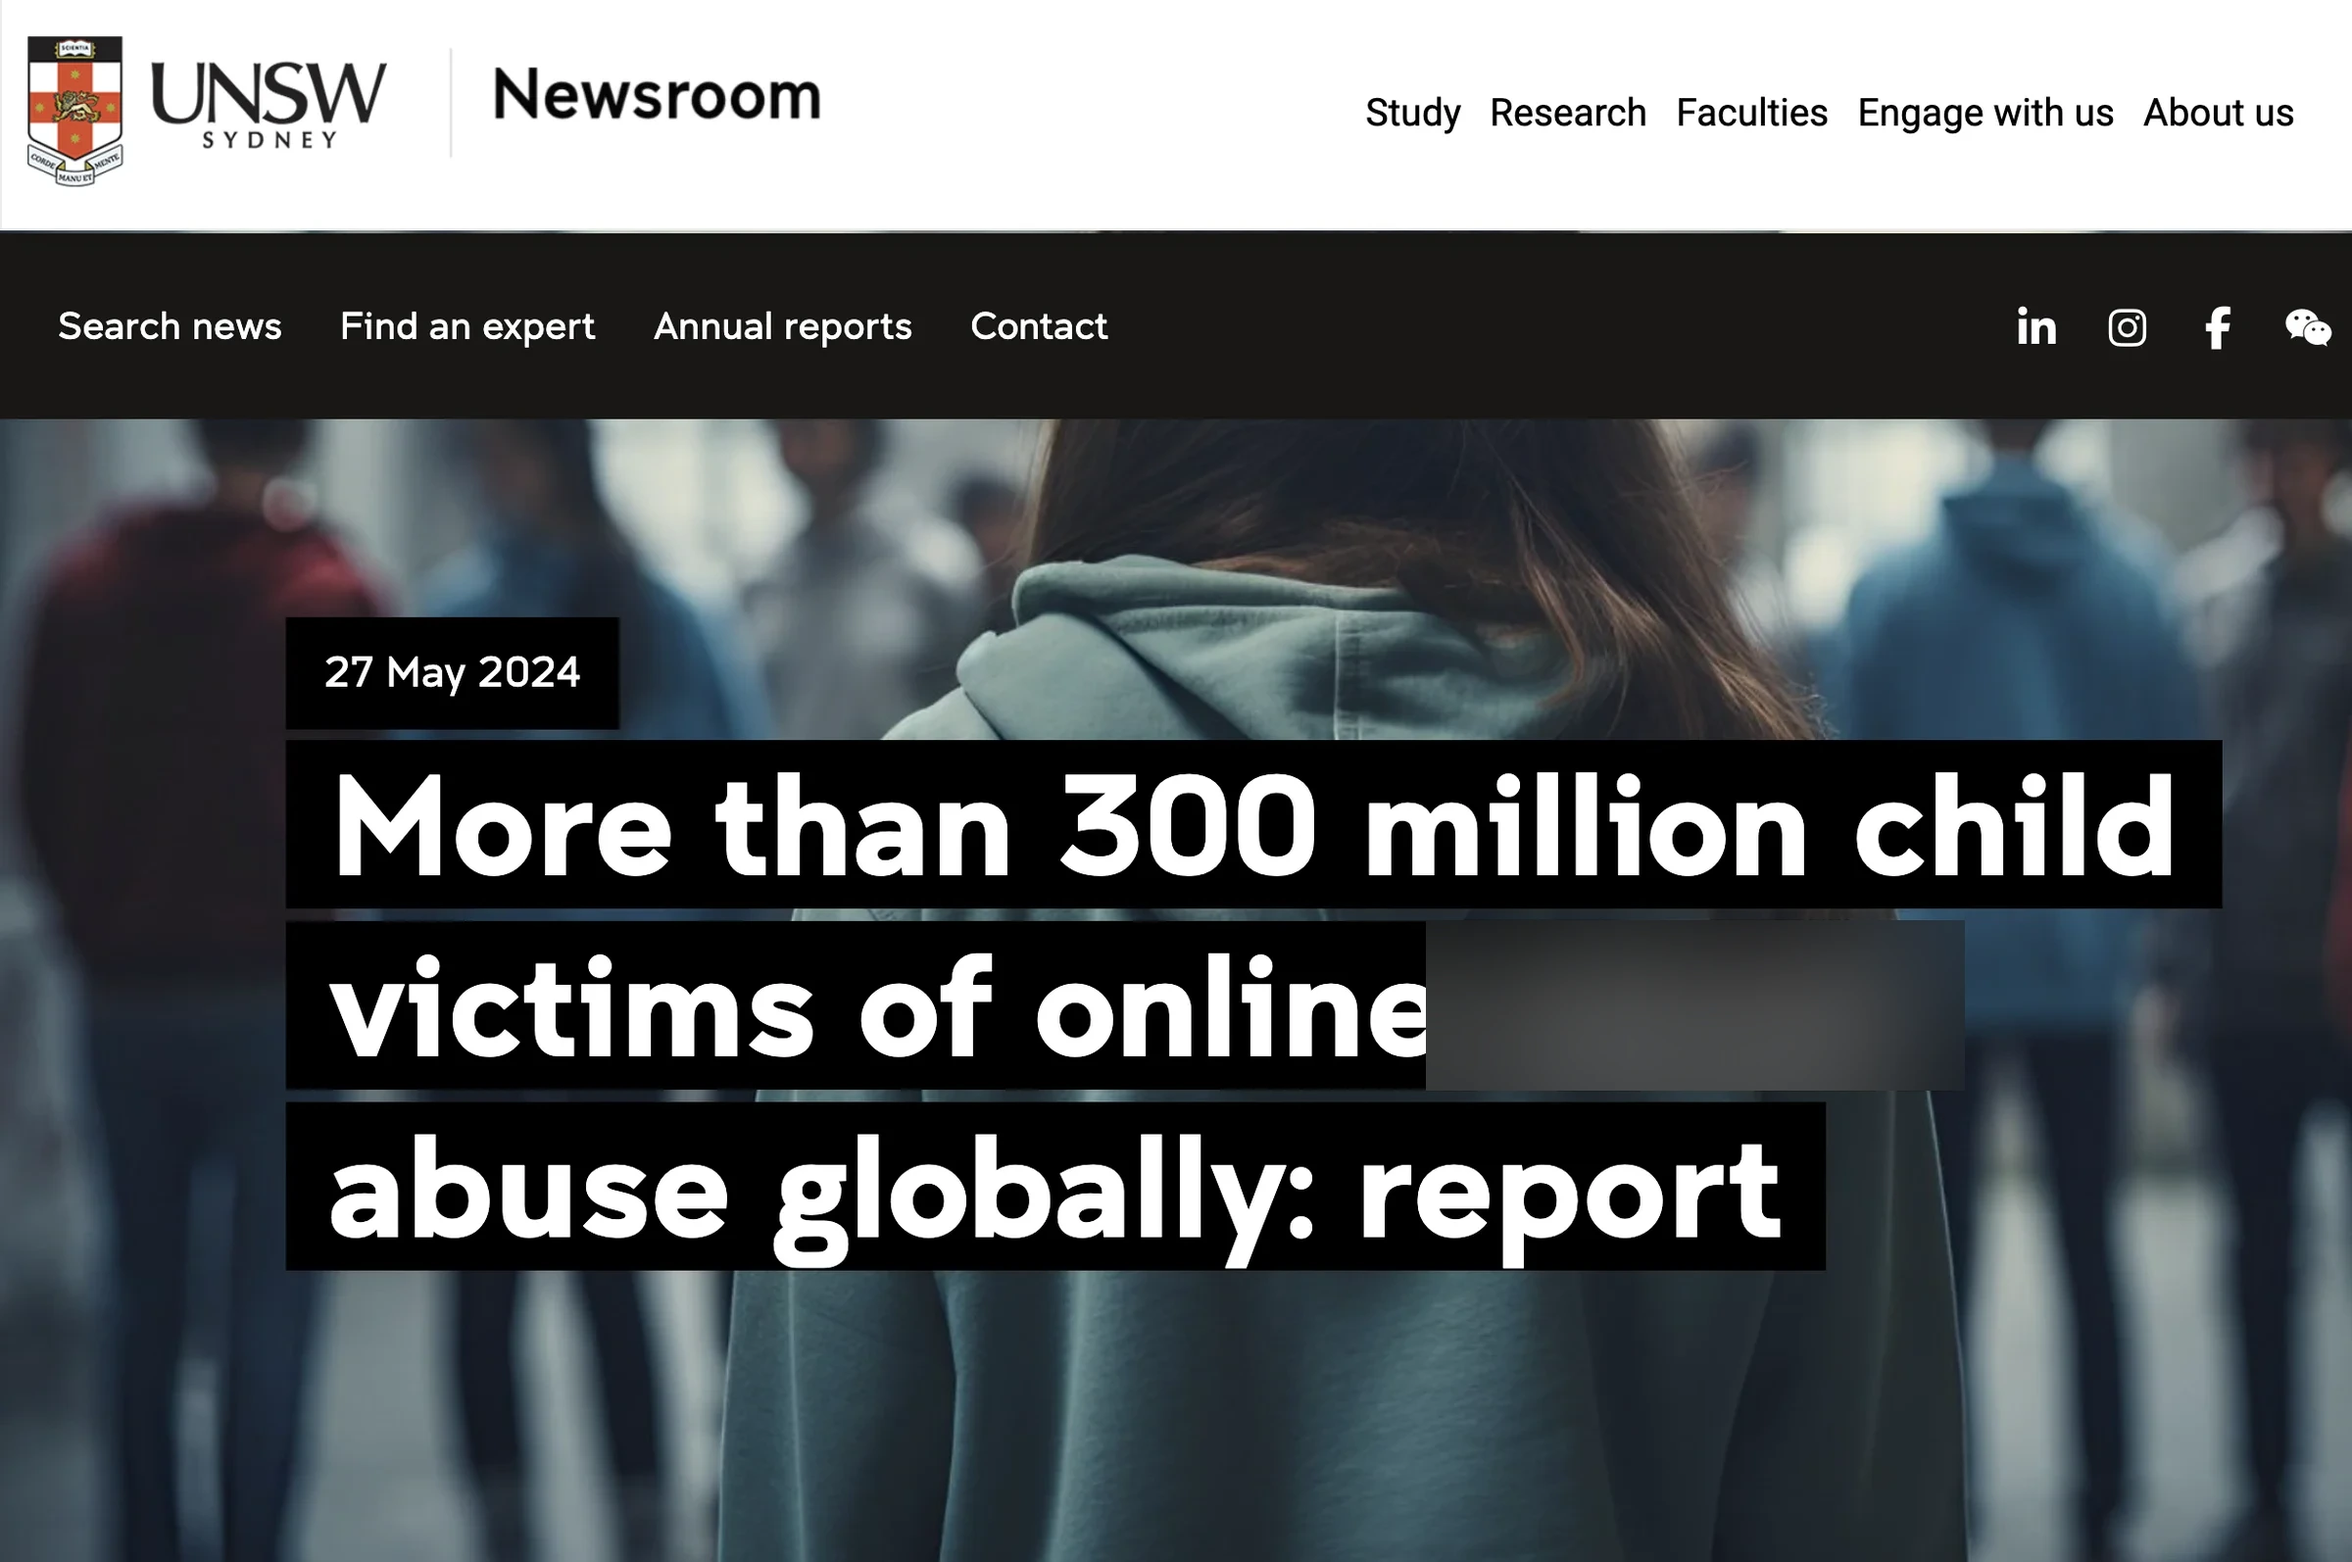
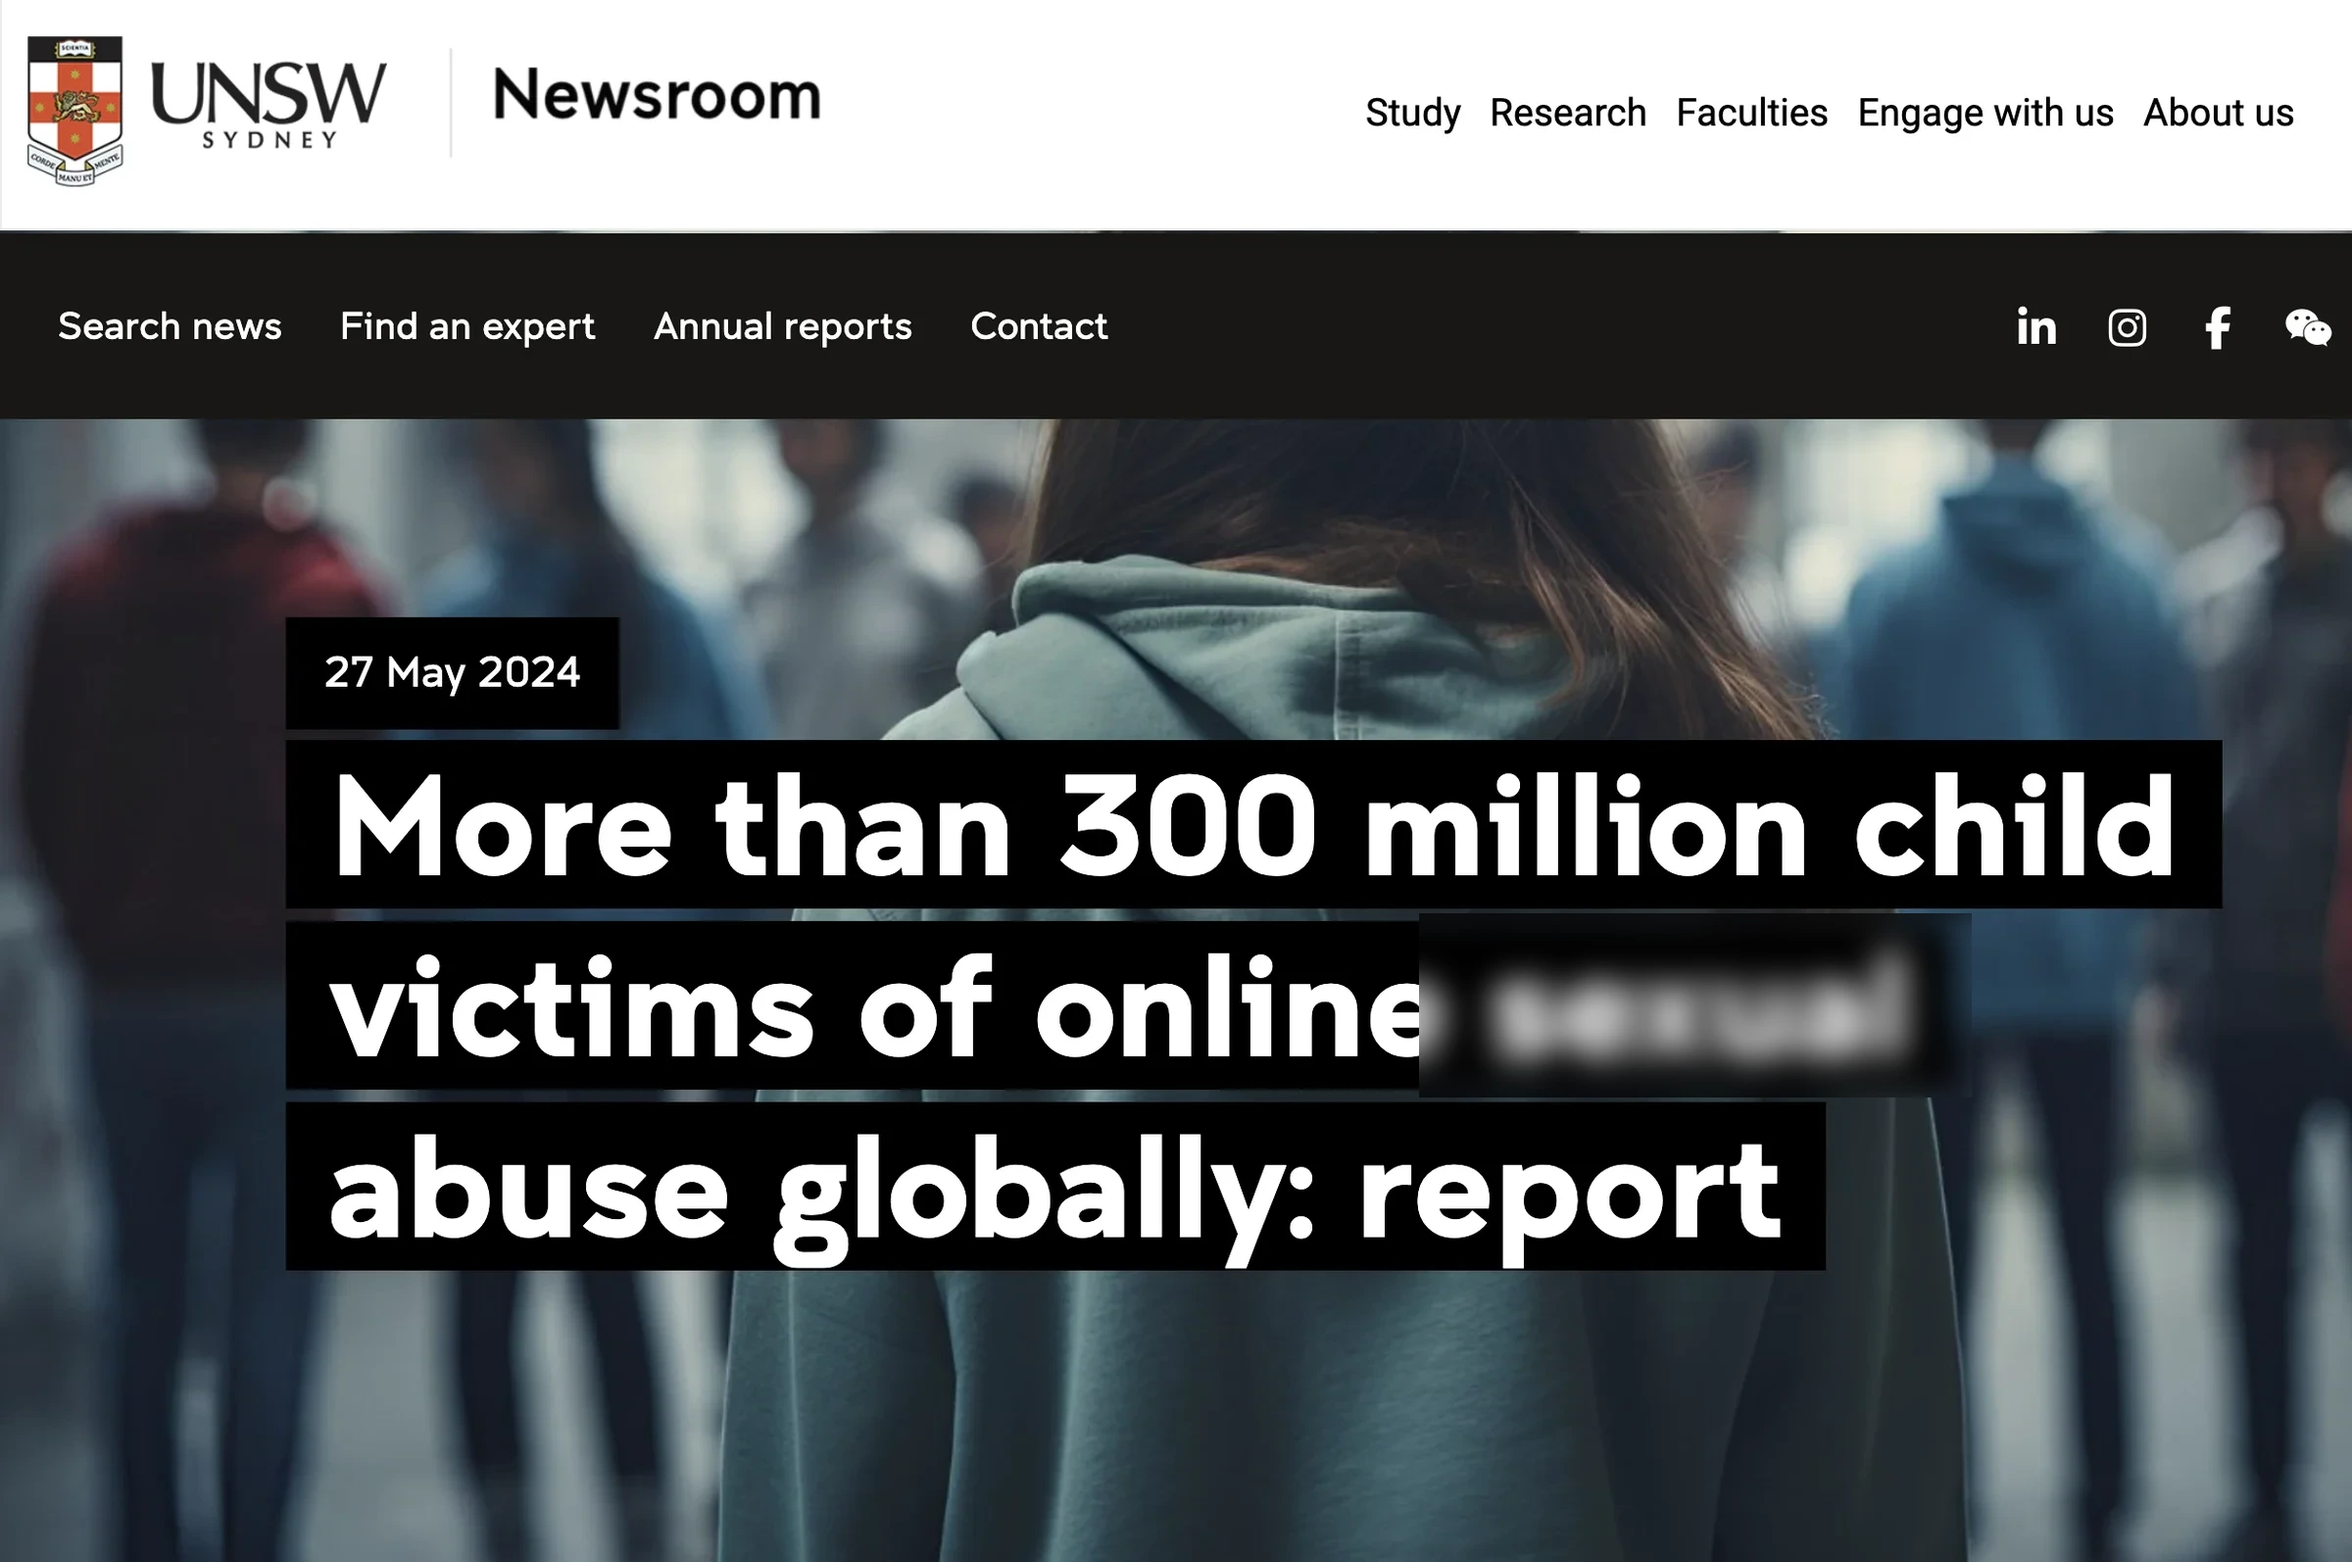
Lighten sensitive-word blurs on slide 43; narrow Lost Screen Memorial screenshot to 80%

Changed region(s): [[0.5938, 0.5841, 0.8438, 0.707]]

diff --git a/assets/js/custom/part-c.js b/assets/js/custom/part-c.js
@@ -67,7 +67,7 @@ var CSS = [
 
 /* Lost Screen Memorial */
 '.pc-lsm{position:absolute;inset:0;overflow:hidden;background:#212121}',
-'.pc-lsm img{position:absolute;left:0;top:0;width:1920px;height:auto;display:block;will-change:transform}',
+'.pc-lsm img{position:absolute;left:192px;top:0;width:1536px;height:auto;display:block;will-change:transform}',
 '.pc-lsm .top{position:absolute;left:0;right:0;top:0;height:210px;background:linear-gradient(180deg,rgba(18,18,18,.96) 0%,rgba(18,18,18,.82) 48%,rgba(18,18,18,0));pointer-events:none}',
 '.pc-lsm .ttl{position:absolute;left:0;right:0;top:34px;text-align:center;font:italic 500 88px/1 var(--f-display);color:#fff;letter-spacing:-.01em;text-shadow:0 4px 30px rgba(0,0,0,.8)}',
 '.pc-lsm .bot{position:absolute;left:0;right:0;bottom:0;height:90px;background:linear-gradient(0deg,rgba(18,18,18,.7),rgba(18,18,18,0));pointer-events:none}',
@@ -255,7 +255,7 @@ D.slides.forEach(function (s) {
         r.t.split(/(naked|bondage|strippers?|sex\w*)/i).forEach(function (part, i) {
           if (!part) return;
           var c = Object.assign({}, r, { t: part });
-          if (i % 2) c.blur = true;
+          if (i % 2) c.blur = /^(naked|sex)/i.test(part) ? 2.8 : true;
           out.push(c);
         });
       });
@@ -386,7 +386,7 @@ Deck.registerSlide(45, {
   },
   enter: function (el, ctx) {
     var img = el.__lsm; if (!img || ctx.reduced) return;
-    var dist = LSM.h * W / LSM.w - H;                 // stretched to the slide width, keep aspect ratio
+    var dist = LSM.h * (W * 0.8) / LSM.w - H;         // 80% of the slide width, keep aspect ratio
     var an = img.animate([{ transform: 'translate3d(0,0,0)' }, { transform: 'translate3d(0,' + (-dist) + 'px,0)' }],
       { duration: LSM.ms, delay: 900, easing: 'cubic-bezier(.42,0,.58,1)', fill: 'both' });
     ctx.onLeave(function () { try { an.cancel(); } catch (e) {} });

diff --git a/assets/js/engine.js b/assets/js/engine.js
@@ -107,7 +107,7 @@ function mkText(e) {
       if (!first) first = r;
       if (r.b) sp.style.fontWeight = 700; if (r.i) sp.style.fontStyle = 'italic';
       if (r.c) sp.style.color = r.c; if (r.f === 'mono') sp.classList.add('m'); else if (r.f === 'hand') sp.classList.add('hd'); else if (r.f === 'disp') sp.classList.add('dp');
-      if (r.blur) { sp.style.filter = 'blur(9px)'; sp.style.userSelect = 'none'; sp.style.display = 'inline-block'; }
+      if (r.blur) { sp.style.filter = 'blur(' + (r.blur === true ? 4 : r.blur) + 'px)'; sp.style.userSelect = 'none'; sp.style.display = 'inline-block'; }
       if (r.base) { sp.style.verticalAlign = 'super'; sp.style.fontSize = (fs * .7).toFixed(1) + 'px'; }
       pe.appendChild(sp);
     });
